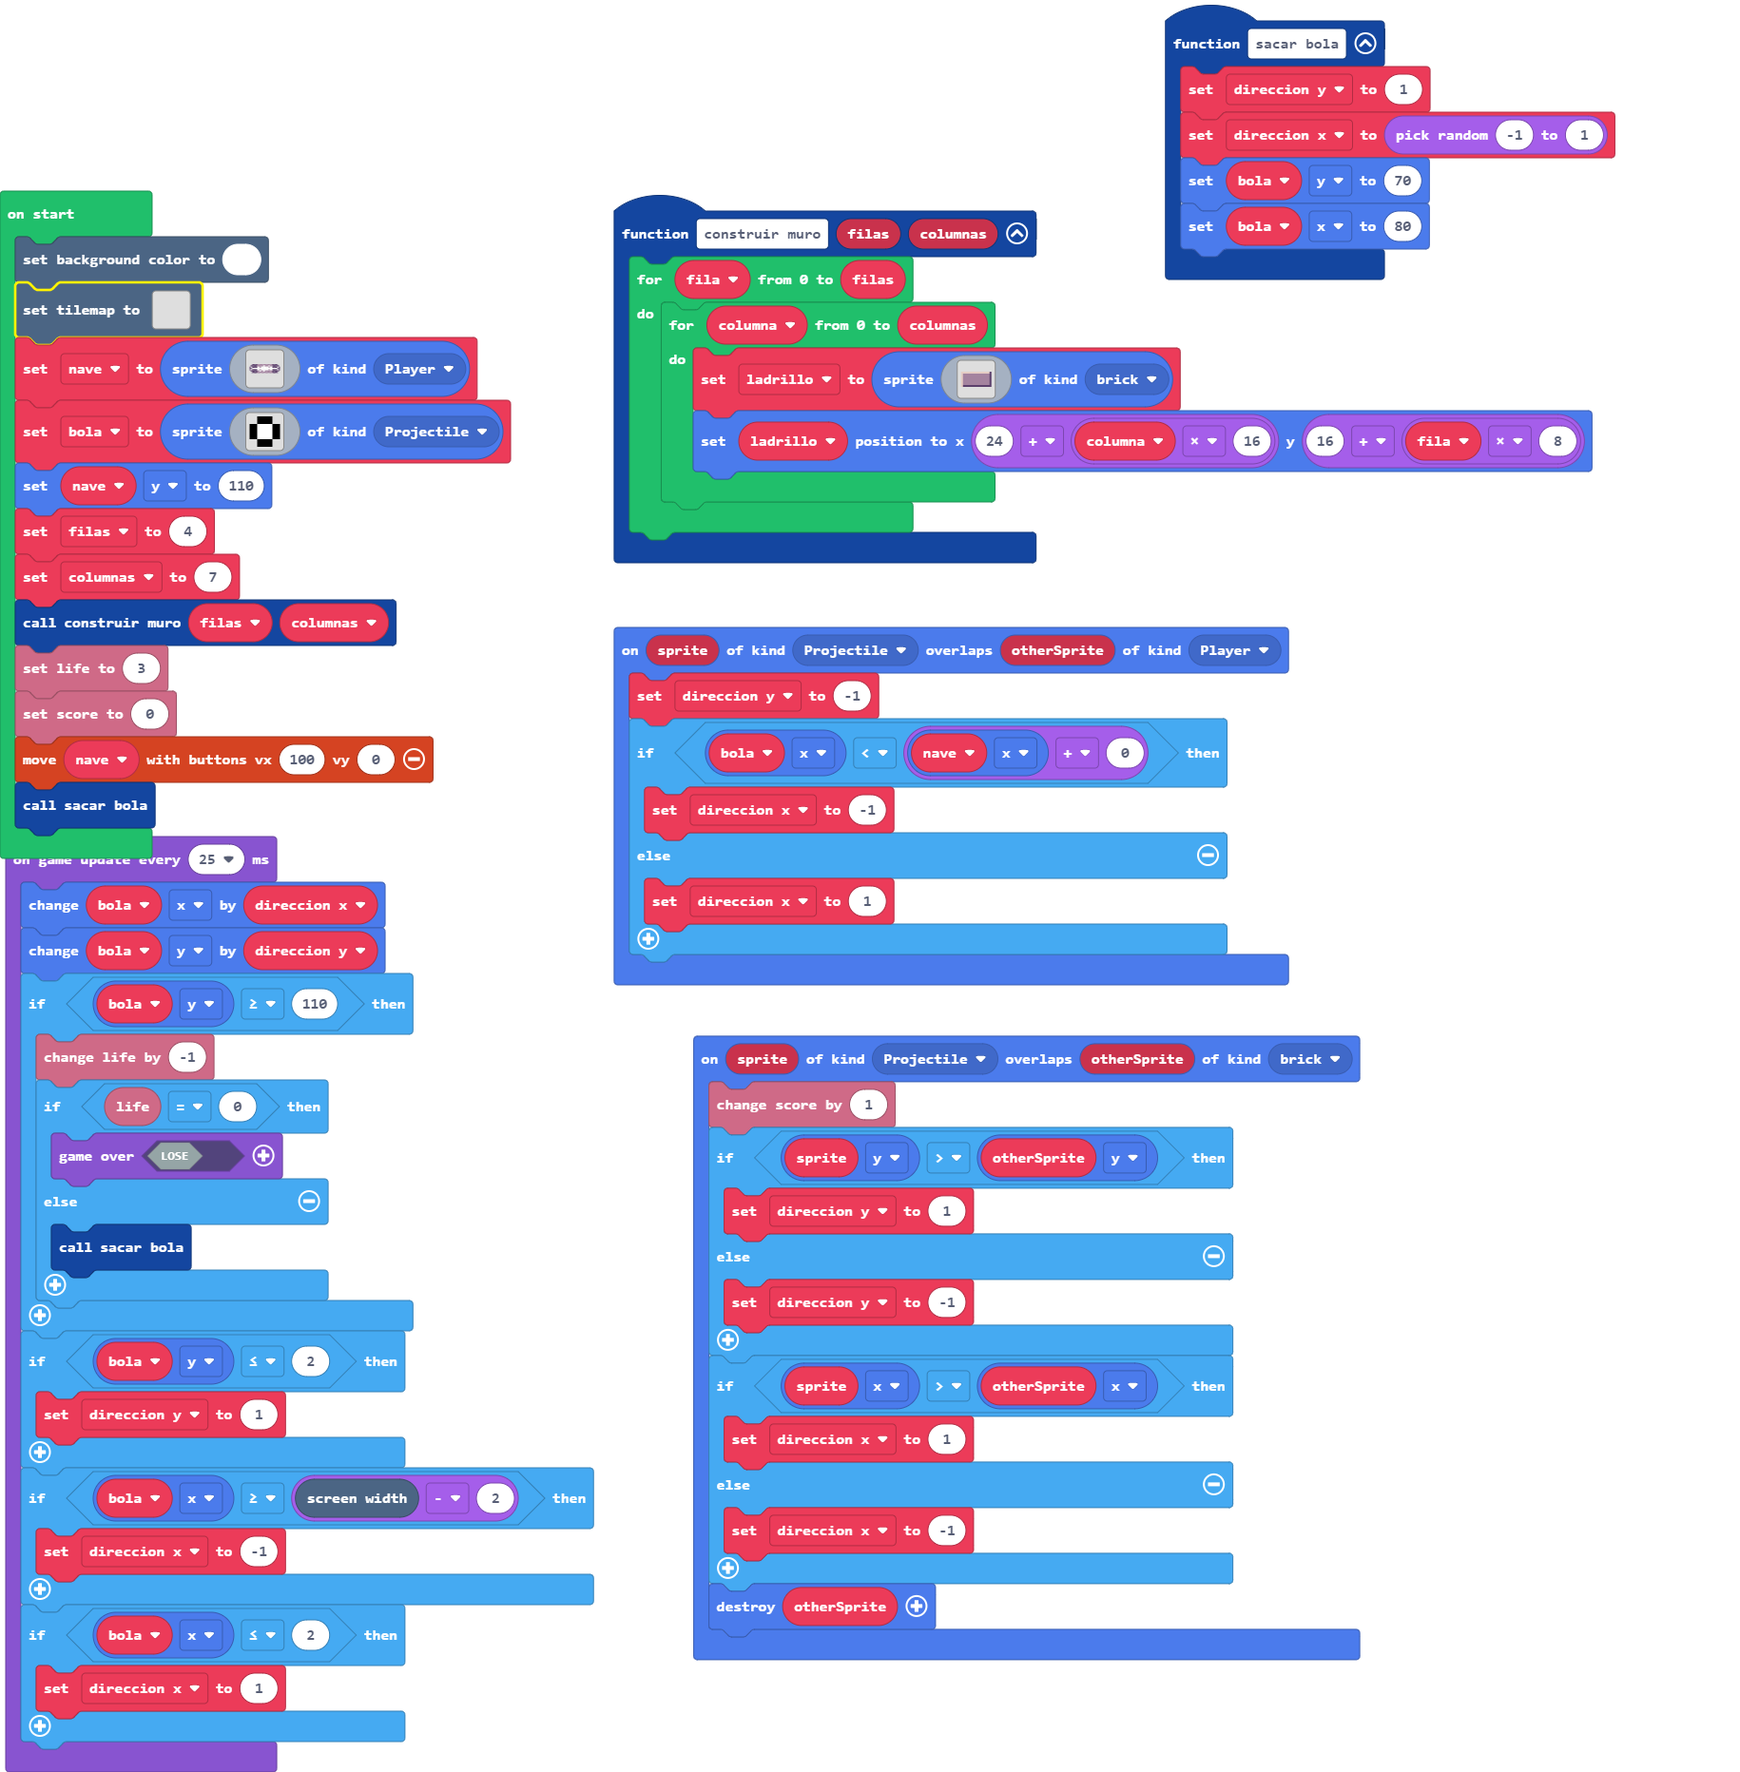
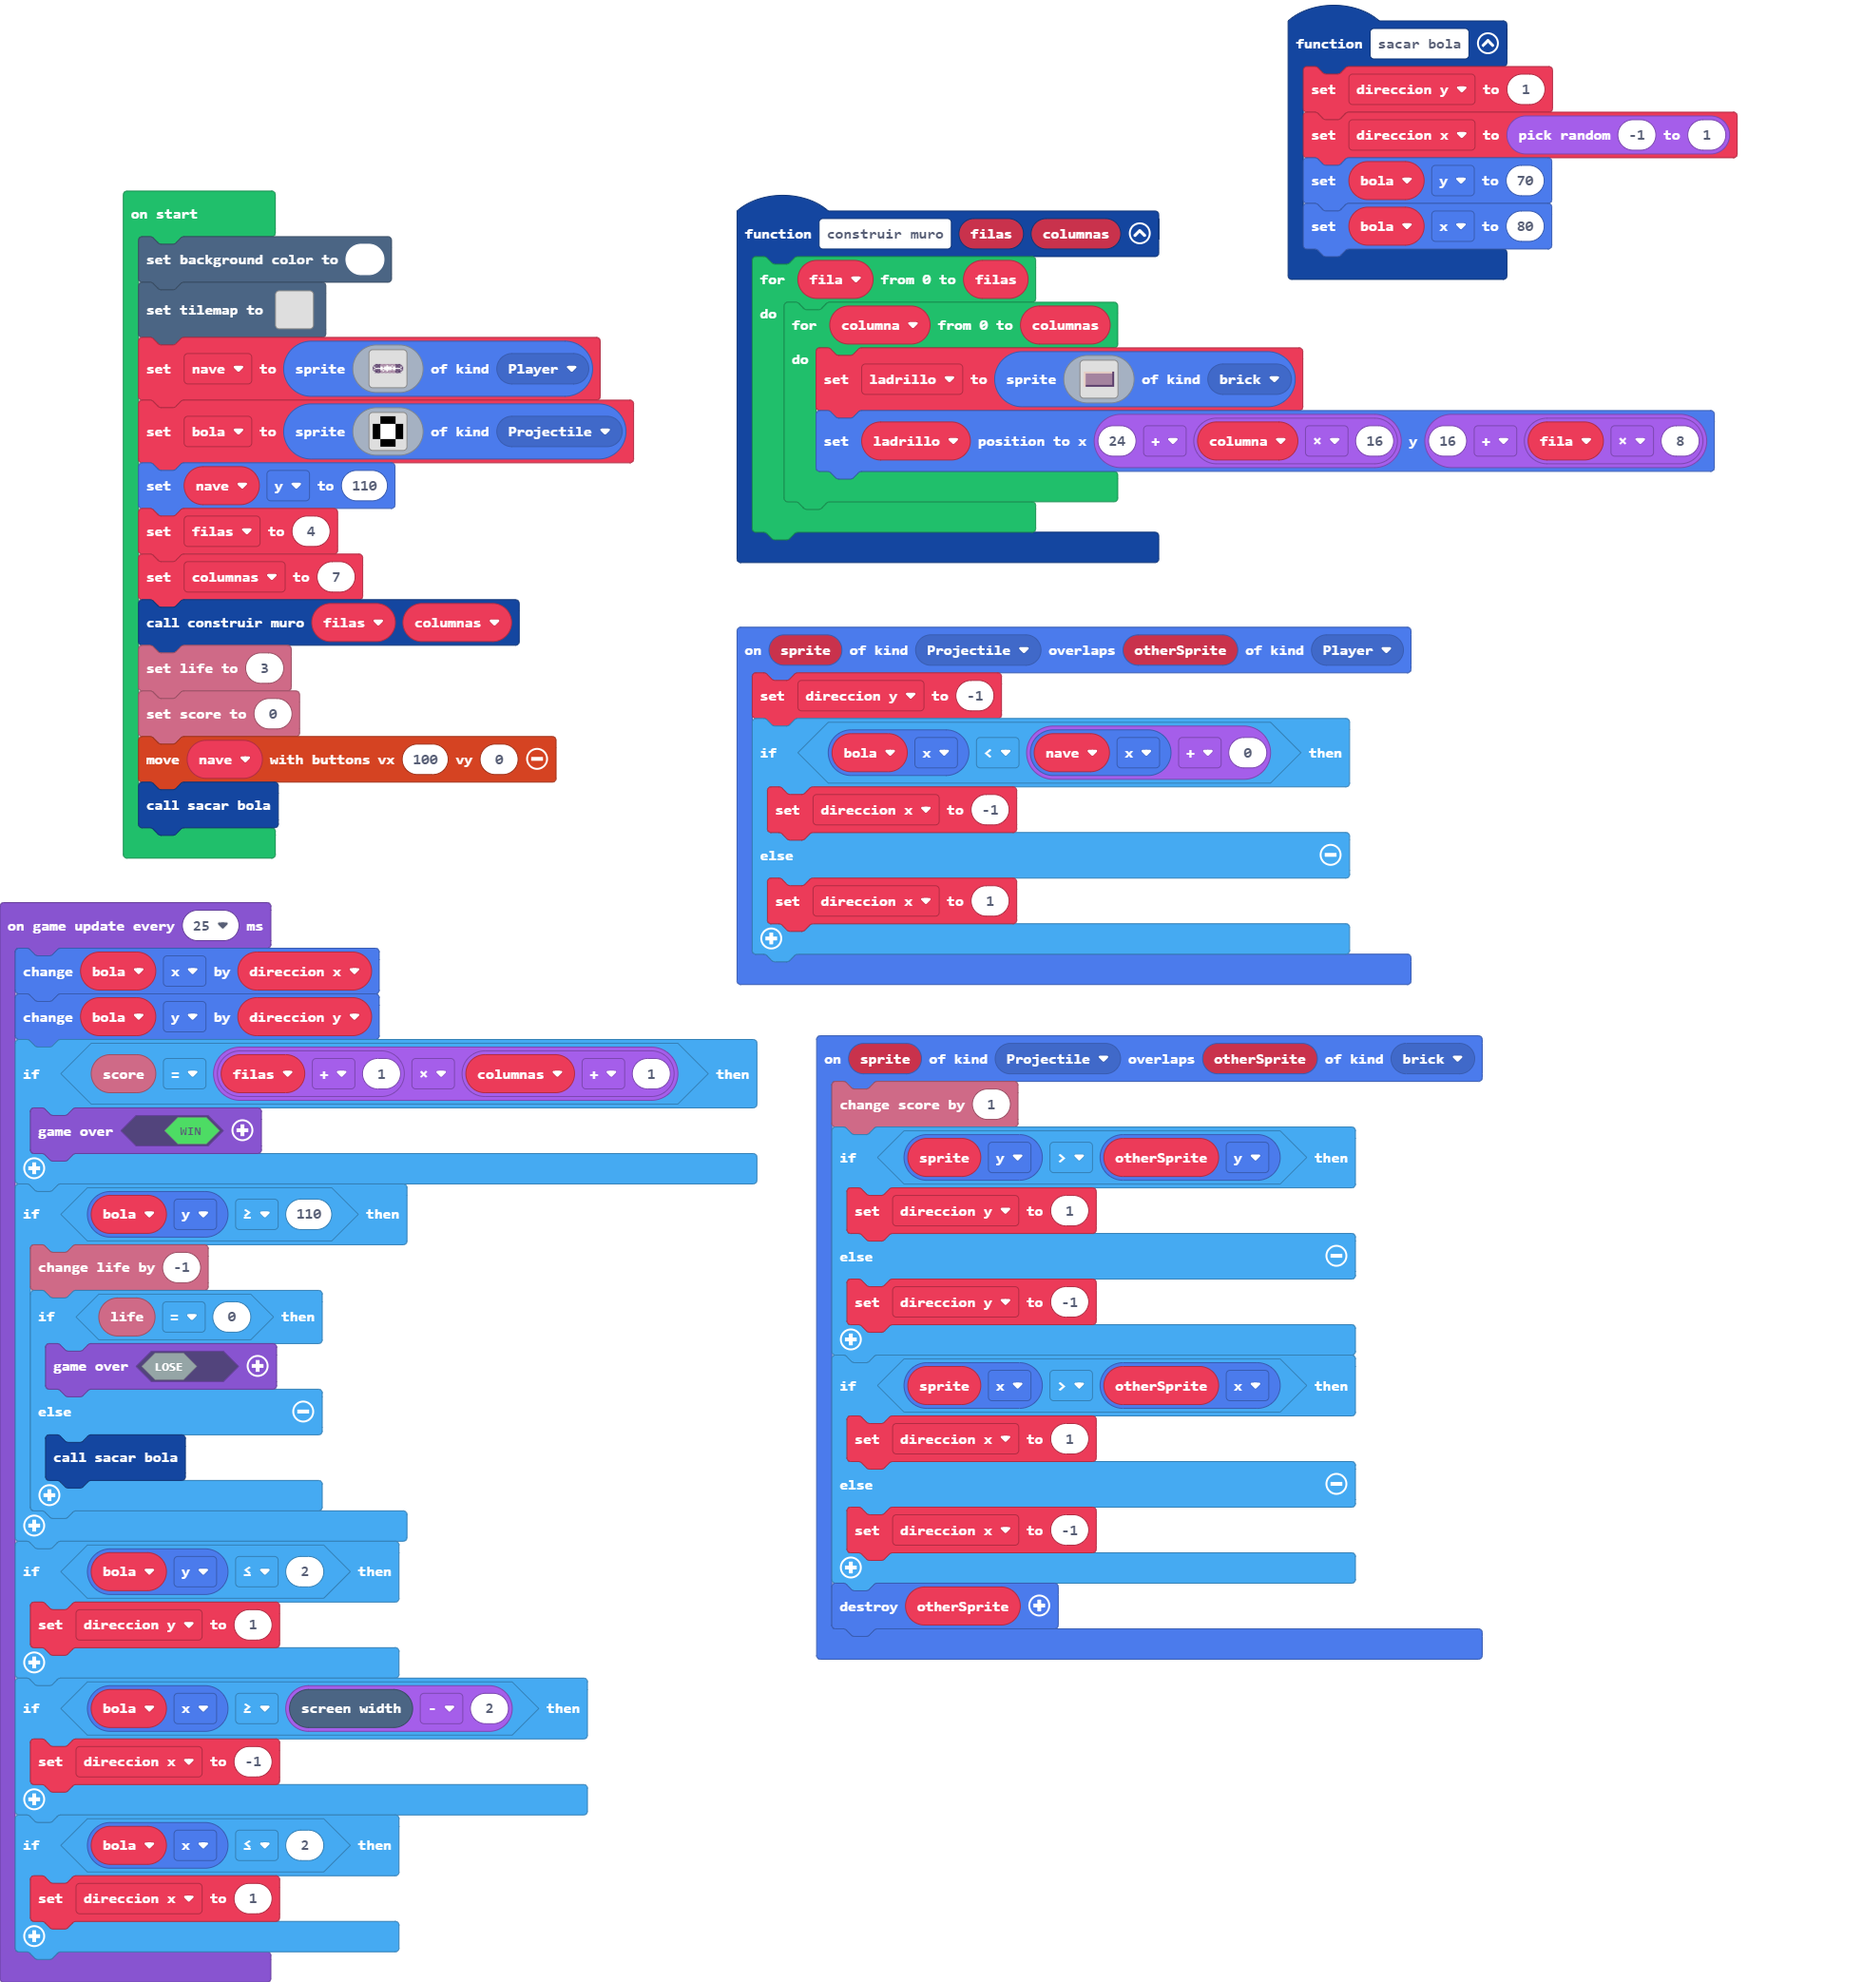
Gana el juego al eliminar todos los bloques

diff --git a/main.ts b/main.ts
@@ -88,6 +88,9 @@ sacar_bola()
 game.onUpdateInterval(25, function () {
     bola.x += direccion_x
     bola.y += direccion_y
+    if (info.score() == (filas + 1) * (columnas + 1)) {
+        game.over(true)
+    }
     if (bola.y >= 110) {
         info.changeLifeBy(-1)
         if (info.life() == 0) {
